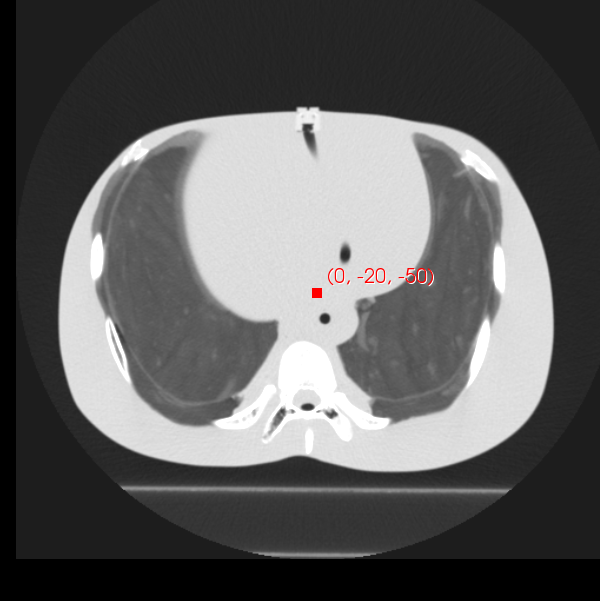
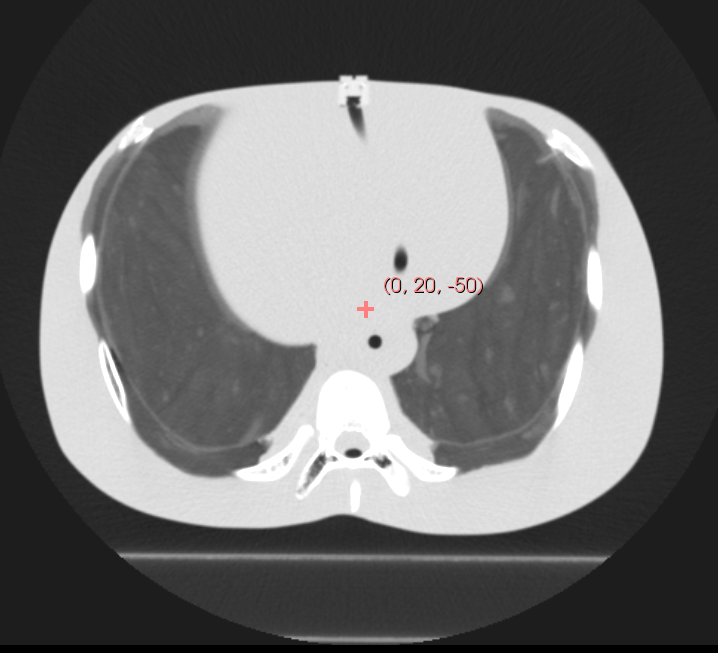
Fix drr bugs; improve drr documentation

diff --git a/drr_opts.c b/drr_opts.c
@@ -25,12 +25,12 @@ print_usage (void)
 	" -nrm \"x y z\"      Set the normal vector for the panel\n"
 	" -vup \"x y z\"      Set the vup vector (toward top row) for the panel\n"
 	" -g \"sad sid\"      Set the sad, sid (in mm)\n"
-	" -r \"r1 r2\"        Set output resolution (in pixels)\n"
+	" -r \"r c\"          Set output resolution (in pixels)\n"
 	" -s scale          Scale the intensity of the output file\n"
 	" -e                Do exponential mapping of output values\n"
-	" -c \"c1 c2\"        Set the image center (in pixels)\n"
+	" -c \"r c\"          Set the image center (in pixels)\n"
 	" -z \"s1 s2\"        Set the physical size of imager (in mm)\n"
-	" -w \"w1 w2 w3 w4\"  Only produce image for pixes in window (in pix)\n"
+	" -w \"r1 r2 c1 c2\"  Only produce image for pixes in window (in pix)\n"
 	" -t outformat      Select output format: pgm, pfm or raw\n"
 	" -S                Output multispectral output files\n"
 	" -i exact          Use exact trilinear interpolation\n"

diff --git a/drr.c b/drr.c
@@ -447,14 +447,14 @@ drr_render_volume_perspective (
 
     /* Compute incremental change in 3d position for each change 
        in panel row/column. */
-    vec3_scale3 (incr_c, prt, ps[0]);
-    vec3_scale3 (incr_r, pdn, ps[1]);
+    vec3_scale3 (incr_c, prt, ps[1]);
+    vec3_scale3 (incr_r, pdn, ps[0]);
 
     /* Get position of upper left pixel on panel */
     vec3_copy (ul_room, ic_room);
-    vec3_scale3 (tmp, incr_r, - pmat->ic[1]);
+    vec3_scale3 (tmp, incr_r, - pmat->ic[0]);
     vec3_add2 (ul_room, tmp);
-    vec3_scale3 (tmp, incr_c, - pmat->ic[0]);
+    vec3_scale3 (tmp, incr_c, - pmat->ic[1]);
     vec3_add2 (ul_room, tmp);
 
     /* drr_trace_ray uses p1 & p2, p1 is the camera, p2 is in the 

diff --git a/proj_image.c b/proj_image.c
@@ -187,8 +187,8 @@ pgm_save (Proj_image *proj, char* img_filename)
 
     for (i = 0; i < proj->dim[0]*proj->dim[1]; i++) {
 	float v = proj->img[i];
-	if (v > 65536) {
-	    v = 65536;
+	if (v >= 65535) {
+	    v = 65535;
 	} else if (v < 0) {
 	    v = 0;
 	}

diff --git a/doc/sphinx/drr.rst b/doc/sphinx/drr.rst
@@ -1,5 +1,5 @@
-DRR - Digitally reconstructed radiographs
-=========================================
+Digitally reconstructed radiographs (DRRs)
+==========================================
 
 A digitally reconstructed radiograph (DRR) is a synthetic radiograph 
 which can be generated from a computed tomography (CT) scan.  
@@ -15,39 +15,67 @@ format.  The command line usage is::
 
  Usage: drr [options] [infile]
  Options:
-   -A hardware       Either "cpu" or "brook" or "cuda" (default=cpu)
-   -a num            Generate num equally spaced angles
-   -N ang            Difference between neighboring angles (in degrees)
-   -nrm "x y z"      Set the normal vector for the panel
-   -vup "x y z"      Set the vup vector (toward top row) for the panel
-   -g "sad sid"      Set the sad, sid (in mm)
-   -r "r1 r2"        Set output resolution (in pixels)
-   -s scale          Scale the intensity of the output file
-   -e                Do exponential mapping of output values
-   -c "c1 c2"        Set the image center (in pixels)
-   -z "s1 s2"        Set the physical size of imager (in mm)
-   -w "w1 w2 w3 w4"  Only produce image for pixes in window (in pix)
-   -t outformat      Select output format: pgm, pfm or raw
-   -S                Output multispectral output files
-   -i exact          Use exact trilinear interpolation
-   -i approx         Use approximate trilinear interpolation
-   -o "o1 o2 o3"     Set isocenter position
-   -I infile         Set the input file in mha format
-   -O outprefix      Generate output files using the specified prefix
+  -A hardware       Either "cpu" or "brook" or "cuda" (default=cpu)
+  -a num            Generate num equally spaced angles
+  -N ang            Difference between neighboring angles (in degrees)
+  -nrm "x y z"      Set the normal vector for the panel
+  -vup "x y z"      Set the vup vector (toward top row) for the panel
+  -g "sad sid"      Set the sad, sid (in mm)
+  -r "r c"          Set output resolution (in pixels)
+  -s scale          Scale the intensity of the output file
+  -e                Do exponential mapping of output values
+  -c "r c"          Set the image center (in pixels)
+  -z "s1 s2"        Set the physical size of imager (in mm)
+  -w "r1 r2 c1 c2"  Only produce image for pixes in window (in pix)
+  -t outformat      Select output format: pgm, pfm or raw
+  -S                Output multispectral output files
+  -i exact          Use exact trilinear interpolation
+  -i approx         Use approximate trilinear interpolation
+  -o "o1 o2 o3"     Set isocenter position
+  -I infile         Set the input file in mha format
+  -O outprefix      Generate output files using the specified prefix
+
+The drr program can be used in either 
+*single image mode* or *rotational mode*.  In single image mode, 
+you specify the complete geometry of the x-ray source and imaging 
+panel for a single image.  In rotational mode, the imaging geometry 
+is assumed to be 
+
+The command line options are described in more details as follows.
+
+.. program:: drr
+
+.. cmdoption:: -A hardware
+
+   Choose the threading mode, which is either "cpu" or "cuda".  
+   The default value is "cpu".  
+
+   When using CPU hardware, DRR generation uses OpenMP for multicore 
+   acceleration if your compiler supports this.  Gcc and Microsoft Visual 
+   Studio Professional compilers support OpenMP, but 
+   Microsoft Visual Studio Express does not.
+
+   At the current time, cuda acceleration is not working.  
+
+.. cmdoption:: -a num
+
+   Generate num equally spaced angles
+
+.. cmdoption:: -r "r1 r2"
+
+   Set the resolution of the imaging panel (in pixels).  Here, r1 refers 
+   to the number of rows, and r2 refers to the number of columns.
+
 
 Single image mode
 -----------------
-The drr program can be used in either 
-*single image mode* or *rotational mode*.  In single image mode, 
-you must specify the complete geometry of the x-ray source and imaging 
-panel.  
-The following example illustrates a complete geometry specification::
+The following example illustrates the use of single image mode::
 
   drr -nrm "1 0 0" \
       -vup "0 0 1" \
       -g "1000 1500" \
-      -r "768 1024" \
-      -z "300 400" \
+      -r "1024 768" \
+      -z "400 300" \
       -c "383.5 511.5" \
       -o "0 -20 -50" \
       input_file.mha
@@ -59,10 +87,9 @@ the **nrm** and **vup** options.  Using the default values of (1, 0, 0)
 and (0, 0, 1) yields the DRR shown on the right:
 
 .. image:: ../figures/drr_input.png
-   :width: 37 %
-
+   :width: 45 %
 .. image:: ../figures/drr_output_1.png
-   :width: 50 %
+   :width: 31 %
 
 By changing the normal direction (**nrm**), we can choose different 
 beam direction within an isocentric orbit.  For example, an 
@@ -70,12 +97,41 @@ anterior-posterior (AP) DRR is generated with a normal of (0, -1, 0)
 as shown below:
 
 .. image:: ../figures/drr_output_2.png
-   :width: 50 %
+   :width: 31 %
+
+The rotation of the imaging panel is selected using the **vup** option.
+The default value of **vup** is (0, 0, 1), which means that the top 
+of the panel is oriented toward the positive z direction in world 
+coordinates.  If we wanted to rotate the panel by 45 degrees 
+counter-clockwise on our AP view, we would set **vup** to 
+the (1, 0, 1) direction, as shown in the image below.  
+Note that **vup** doesn't have to be normalized.
+
+.. image:: ../figures/drr_output_3.png
+   :width: 31 %
 
 
 Rotational mode
 ---------------
-(Add documentation here)
+In rotional mode, multiple images are created.  The source and imaging 
+panel are assumed to rotate in a circular orbit around the isocenter.  
+The circular orbit is performed around the Z axis, and the images 
+are generated every **-N ang** degrees of the orbit.  This is illustrated 
+using the following example::
+
+  drr -N 20 \
+      -a 18 \
+      -g "1000 1500" \
+      -r "1024 768" \
+      -z "400 300" \
+      -o "0 -20 -50" \
+      input_file.mha
+
+In the above example, 18 images are generated at a 20 degree interval, 
+as follows:
+
+.. image:: ../figures/drr_output_4.png
+   :width: 70 %
 
 DRR geometry
 ------------
